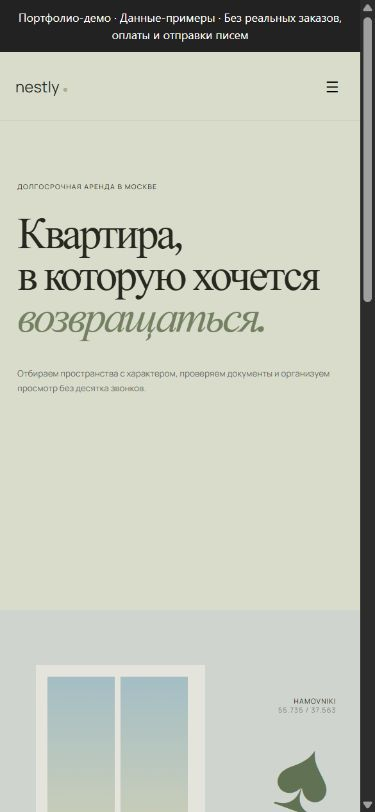
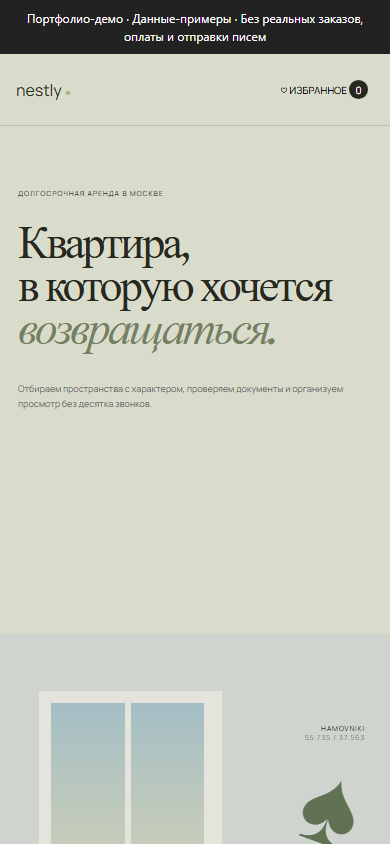
Complete responsive interactions and add browser regression checks

diff --git a/public/index.html b/public/index.html
@@ -1,2 +1,2 @@
 <!doctype html><html lang="ru"><head><meta charset="UTF-8"><meta name="viewport" content="width=device-width,initial-scale=1"><meta name="description" content="Nestly — долгосрочная аренда квартир без лишнего шума"><link rel="preconnect" href="https://fonts.googleapis.com"><link rel="preconnect" href="https://fonts.gstatic.com" crossorigin><link href="https://fonts.googleapis.com/css2?family=Manrope:wght@400;500;600&family=Newsreader:ital,opsz,wght@0,6..72,400;1,6..72,400&display=swap" rel="stylesheet"><link rel="stylesheet" href="styles.css"><title>Nestly — квартиры для жизни</title></head><body>
-<div role="note" style="padding:9px 16px;background:#222;color:#fff;font:12px/1.5 system-ui;text-align:center">Портфолио-демо · Данные-примеры · Без реальных заказов, оплаты и отправки писем</div><header><a class="logo">nestly<span>●</span></a><nav><a href="#catalog">Квартиры</a><a href="#about">Как это работает</a><a>Для собственников</a></nav><button class="saved">♡ Избранное <i id="saved-count">0</i></button><button class="menu">☰</button></header><main><section class="hero"><div class="hero-copy"><small>ДОЛГОСРОЧНАЯ АРЕНДА В МОСКВЕ</small><h1>Квартира,<br>в которую хочется<br><em>возвращаться.</em></h1><p>Отбираем пространства с характером, проверяем документы и организуем просмотр без десятка звонков.</p></div><div class="hero-room"><div class="window"><i></i><i></i></div><div class="sofa"><i></i><b></b></div><div class="table"></div><div class="plant">♠</div><span>HAMOVNIKI<br><b>55.735 / 37.563</b></span></div><form class="search"><label>Район<select id="district"><option value="all">Любой район</option><option>Хамовники</option><option>Пресня</option><option>Чистые пруды</option><option>Даниловский</option><option>Раменки</option><option>Басманный</option></select></label><label>Комнаты<select id="rooms"><option value="0">Любое количество</option><option value="1">От 1 комнаты</option><option value="2">От 2 комнат</option><option value="3">От 3 комнат</option></select></label><label>Бюджет<select id="price"><option value="0">Без ограничений</option><option value="100000">до 100 000 ₽</option><option value="150000">до 150 000 ₽</option><option value="200000">до 200 000 ₽</option></select></label><button>Показать варианты →</button></form></section><section class="catalog" id="catalog"><header><div><small>ПОДХОДЯЩИЕ ВАРИАНТЫ</small><h2>Пространства<br>для жизни</h2></div><p><span id="result-count">—</span> объектов · проверены командой Nestly</p></header><div class="layout"><div class="listings" id="listings"></div><div class="map"><span class="river"></span><i style="--x:22%;--y:34%">2</i><i style="--x:58%;--y:25%">1</i><i style="--x:68%;--y:62%">3</i><i style="--x:38%;--y:72%">1</i><div class="map-label one">ПРЕСНЯ</div><div class="map-label two">ХАМОВНИКИ</div><div class="map-label three">БАСМАННЫЙ</div></div></div></section><section class="about" id="about"><small>СПОКОЙНАЯ АРЕНДА</small><h2>Мы убрали из поиска квартиры<br><em>всё лишнее.</em></h2><div><article><span>01</span><h3>Только живые объявления</h3><p>Проверяем доступность и документы до публикации.</p></article><article><span>02</span><h3>Один менеджер</h3><p>Организует просмотры и остаётся на связи до заселения.</p></article><article><span>03</span><h3>Прозрачные условия</h3><p>Показываем все платежи и заранее проверяем договор.</p></article></div></section></main><dialog><form id="inquiry"><button type="button" class="close">×</button><small>ЗАПИСАТЬСЯ НА ПРОСМОТР</small><h2 id="dialog-title">Квартира</h2><input type="hidden" name="listingId"><label>Ваше имя<input name="name" required placeholder="Роман"></label><label>Телефон<input name="phone" required placeholder="+7 999 000-00-00"></label><label>Комментарий<textarea name="message" rows="3" placeholder="Когда вам удобно посмотреть квартиру?"></textarea></label><button class="send">Отправить заявку →</button><p class="success"></p></form></dialog><script src="app.js"></script></body></html>
+<div role="note" style="padding:9px 16px;background:#222;color:#fff;font:12px/1.5 system-ui;text-align:center">Портфолио-демо · Данные-примеры · Без реальных заказов, оплаты и отправки писем</div><header><a class="logo">nestly<span>●</span></a><nav><a href="#catalog">Квартиры</a><a href="#about">Как это работает</a></nav><button class="saved">♡ Избранное <i id="saved-count">0</i></button><button class="menu" aria-label="Перейти к поиску квартир">Поиск</button></header><main><section class="hero"><div class="hero-copy"><small>ДОЛГОСРОЧНАЯ АРЕНДА В МОСКВЕ</small><h1>Квартира,<br>в которую хочется<br><em>возвращаться.</em></h1><p>Отбираем пространства с характером, проверяем документы и организуем просмотр без десятка звонков.</p></div><div class="hero-room"><div class="window"><i></i><i></i></div><div class="sofa"><i></i><b></b></div><div class="table"></div><div class="plant">♠</div><span>HAMOVNIKI<br><b>55.735 / 37.563</b></span></div><form class="search"><label>Район<select id="district"><option value="all">Любой район</option><option>Хамовники</option><option>Пресня</option><option>Чистые пруды</option><option>Даниловский</option><option>Раменки</option><option>Басманный</option></select></label><label>Комнаты<select id="rooms"><option value="0">Любое количество</option><option value="1">От 1 комнаты</option><option value="2">От 2 комнат</option><option value="3">От 3 комнат</option></select></label><label>Бюджет<select id="price"><option value="0">Без ограничений</option><option value="100000">до 100 000 ₽</option><option value="150000">до 150 000 ₽</option><option value="200000">до 200 000 ₽</option></select></label><button>Показать варианты →</button></form></section><section class="catalog" id="catalog"><header><div><small>ПОДХОДЯЩИЕ ВАРИАНТЫ</small><h2>Пространства<br>для жизни</h2></div><p><span id="result-count">—</span> объектов · проверены командой Nestly</p></header><div class="layout"><div class="listings" id="listings"></div><div class="map"><span class="river"></span><i style="--x:22%;--y:34%">2</i><i style="--x:58%;--y:25%">1</i><i style="--x:68%;--y:62%">3</i><i style="--x:38%;--y:72%">1</i><div class="map-label one">ПРЕСНЯ</div><div class="map-label two">ХАМОВНИКИ</div><div class="map-label three">БАСМАННЫЙ</div></div></div></section><section class="about" id="about"><small>СПОКОЙНАЯ АРЕНДА</small><h2>Мы убрали из поиска квартиры<br><em>всё лишнее.</em></h2><div><article><span>01</span><h3>Только живые объявления</h3><p>Проверяем доступность и документы до публикации.</p></article><article><span>02</span><h3>Один менеджер</h3><p>Организует просмотры и остаётся на связи до заселения.</p></article><article><span>03</span><h3>Прозрачные условия</h3><p>Показываем все платежи и заранее проверяем договор.</p></article></div></section></main><dialog><form id="inquiry"><button type="button" class="close">×</button><small>ЗАПИСАТЬСЯ НА ПРОСМОТР</small><h2 id="dialog-title">Квартира</h2><input type="hidden" name="listingId"><label>Ваше имя<input name="name" required placeholder="Роман"></label><label>Телефон<input name="phone" required placeholder="+7 999 000-00-00"></label><label>Комментарий<textarea name="message" rows="3" placeholder="Когда вам удобно посмотреть квартиру?"></textarea></label><button class="send">Отправить заявку →</button><p class="success"></p></form></dialog><script src="app.js"></script></body></html>

diff --git a/public/styles.css b/public/styles.css
@@ -1,1 +1,3 @@
 :root{font-family:Manrope,sans-serif;color:#272820;background:#f2f0e9;--olive:#738061;--ink:#272820;--line:#d6d3c9}*{box-sizing:border-box}html{scroll-behavior:smooth}body{margin:0;min-width:320px}button,input,select,textarea{font:inherit}.logo{font:600 20px}.logo span{color:#a4b58b;font-size:10px;margin-left:3px}body>header{position:absolute;z-index:3;left:0;right:0;height:72px;display:grid;grid-template-columns:1fr auto 1fr;align-items:center;padding:0 34px;border-bottom:1px solid #39392f2b}nav{display:flex;gap:27px}nav a,.saved{font-size:8px;text-transform:uppercase}.saved{justify-self:end;border:0;background:none}.saved i{display:inline-grid;place-items:center;width:19px;height:19px;border-radius:50%;background:var(--ink);color:white;font-style:normal}.menu{display:none}.hero{position:relative;display:grid;grid-template-columns:1fr 1fr;min-height:700px;background:#d9dccb}.hero-copy{padding:145px 6vw 130px}.hero small,.catalog small,.about small,dialog small{font-size:7px;letter-spacing:.13em}.hero h1{margin:25px 0;font:400 61px/.94 Newsreader;letter-spacing:-.055em}.hero h1 em{color:var(--olive);font-weight:400}.hero-copy p{max-width:430px;color:#66695f;font-size:9px;line-height:1.7}.hero-room{position:relative;overflow:hidden;background:linear-gradient(#d0d4ce 0 65%,#ae967d 66%)}.window{position:absolute;left:10%;top:11%;display:flex;width:47%;height:45%;border:12px solid #e4e3dc;background:linear-gradient(#a4bec5,#d8d3b4)}.window i{flex:1;border-right:6px solid #e4e3dc}.sofa{position:absolute;left:19%;bottom:12%;width:60%;height:29%;border-radius:38px 38px 8px 8px;background:#879177;box-shadow:0 15px 30px #514d4340}.sofa:before{content:'';position:absolute;left:-5%;right:-5%;bottom:0;height:35%;border-radius:15px;background:#79836b}.sofa i,.sofa b{position:absolute;top:17%;width:42%;height:53%;border-radius:15px;background:#9ba38e}.sofa i{left:5%}.sofa b{right:5%}.table{position:absolute;right:2%;bottom:6%;width:31%;height:10%;border-radius:50%;background:#664e3c}.table:after{content:'';position:absolute;left:50%;top:60%;width:5px;height:80px;background:#4b3d33}.plant{position:absolute;right:7%;top:18%;font-size:110px;color:#607154;transform:rotate(20deg)}.hero-room>span{position:absolute;right:25px;top:90px;text-align:right;font-size:7px;letter-spacing:.12em}.hero-room>span b{font-weight:400;color:#777}.search{position:absolute;left:6vw;right:6vw;bottom:-38px;z-index:4;display:grid;grid-template-columns:1fr 1fr 1fr 170px;background:#faf9f5;border:1px solid #cac7bd;border-radius:10px;box-shadow:0 18px 45px #5e584c1d;overflow:hidden}.search label{display:grid;gap:5px;padding:15px 18px;border-right:1px solid var(--line);font-size:7px;text-transform:uppercase}.search select{border:0;background:none;outline:0;font-size:10px}.search button,.send{border:7px solid #faf9f5;background:var(--ink);color:white;font-size:8px}.catalog{padding:120px 34px 90px}.catalog>header{display:flex;justify-content:space-between;align-items:end;margin-bottom:35px}.catalog h2,.about h2{margin:8px 0 0;font:400 43px/.94 Newsreader}.catalog header p{color:#797b72;font-size:8px}.layout{display:grid;grid-template-columns:1.2fr .8fr;gap:15px}.listings{display:grid;grid-template-columns:1fr 1fr;gap:12px}.listing{border:1px solid var(--line);background:#fbfaf6;cursor:pointer}.listing-art{position:relative;height:220px;background:var(--accent);overflow:hidden}.listing-art .wall{position:absolute;inset:0;background:linear-gradient(#ddd8ca 0 63%,#a58a72 64%);filter:hue-rotate(var(--hue))}.listing-art .pic{position:absolute;left:9%;top:13%;width:31%;height:32%;border:8px solid #eae5da;background:var(--accent)}.listing-art .bed{position:absolute;left:17%;bottom:14%;width:64%;height:27%;border-radius:13px 13px 3px 3px;background:var(--accent);box-shadow:0 8px 15px #4f463a3a}.listing-art .bed:after{content:'';position:absolute;left:7%;top:12%;width:37%;height:40%;border-radius:7px;background:#e6e0d3}.listing-art>span{position:absolute;left:10px;bottom:10px;padding:5px 7px;border-radius:5px;background:#f7f4eddf;font-size:6px;text-transform:uppercase}.heart{position:absolute;right:10px;top:10px;width:28px;height:28px;border:0;border-radius:50%;background:#fffddd}.heart.active{background:#283028;color:white}.listing-info{padding:14px}.listing-info>small{color:#888a81;letter-spacing:0}.listing-info h3{margin:5px 0 15px;font:400 18px Newsreader}.specs{display:flex;gap:12px;padding:11px 0;border-top:1px solid #e3e0d8;color:#77796f;font-size:7px}.listing-foot{display:flex;justify-content:space-between;align-items:end}.listing-foot strong{font-size:12px}.listing-foot strong small{font-size:6px;font-weight:400}.listing-foot button{border:0;background:none;font-size:7px;text-decoration:underline}.map{position:sticky;top:15px;height:670px;border:1px solid var(--line);background:#d9dccf;overflow:hidden}.map:before{content:'';position:absolute;inset:0;background:repeating-linear-gradient(25deg,transparent 0 45px,#c5cabb 46px 48px),repeating-linear-gradient(110deg,transparent 0 65px,#cbd0c1 66px 68px)}.river{position:absolute;left:44%;top:-10%;width:20%;height:120%;background:#b9d0d0;transform:rotate(-13deg);border-left:5px solid #d8dccf;border-right:5px solid #d8dccf}.map>i{position:absolute;left:var(--x);top:var(--y);z-index:2;display:grid;place-items:center;width:32px;height:32px;border-radius:50% 50% 50% 4px;transform:rotate(-45deg);background:var(--ink);color:white;font-size:8px;font-style:normal}.map>i::first-letter{transform:rotate(45deg)}.map-label{position:absolute;z-index:1;color:#72786d;font-size:7px;letter-spacing:.15em}.map-label.one{left:12%;top:20%}.map-label.two{left:18%;top:58%}.map-label.three{right:8%;top:44%}.about{padding:100px 6vw;background:#2b352d;color:#eef0e9}.about h2{font-size:50px}.about h2 em{color:#aabc92}.about>div{display:grid;grid-template-columns:repeat(3,1fr);gap:45px;margin-top:65px}.about article{border-top:1px solid #59625b;padding-top:16px}.about article>span{font:italic 16px Newsreader;color:#aabc92}.about h3{margin:30px 0 8px;font:400 18px Newsreader}.about p{margin:0;color:#a1a8a2;font-size:8px;line-height:1.6}dialog{width:min(480px,calc(100% - 24px));border:0;border-radius:15px;padding:0;background:#f7f5ef}dialog::backdrop{background:#172019a3;backdrop-filter:blur(3px)}dialog form{position:relative;display:grid;gap:12px;padding:26px}dialog h2{margin:3px 0 15px;font:400 25px Newsreader}dialog label{display:grid;gap:5px;font-size:8px}dialog input,dialog textarea{border:1px solid var(--line);border-radius:7px;background:white;padding:10px;resize:vertical}.close{position:absolute;right:15px;top:10px;border:0;background:none;font-size:22px}.send{border:0;padding:12px}.success{min-height:12px;margin:0;color:#577158;font-size:8px}@media(max-width:800px){body>header{grid-template-columns:1fr auto;padding:0 16px}nav,.saved{display:none}.menu{display:block;border:0;background:none}.hero{grid-template-columns:1fr}.hero-copy{min-height:580px;padding:125px 18px}.hero h1{font-size:46px}.hero-room{min-height:520px}.search{left:14px;right:14px;grid-template-columns:1fr 1fr;bottom:-100px}.search label:nth-child(3){display:none}.search button{min-height:58px}.catalog{padding:170px 14px 70px}.catalog>header{display:block}.layout{grid-template-columns:1fr}.listings{grid-template-columns:1fr}.listing-art{height:280px}.map{display:none}.about{padding:75px 18px}.about h2{font-size:39px}.about>div{grid-template-columns:1fr;gap:30px}}
+
+@media(max-width:800px){body>header .saved{display:block;font-size:10px}body>header .menu{display:none}}

diff --git a/public/app.js b/public/app.js
@@ -1,1 +1,7 @@
-let saved=new Set(JSON.parse(localStorage.getItem('nestly-saved')||'[]')),list=[];const money=v=>`${new Intl.NumberFormat('ru-RU').format(v)} ₽`;async function load(){const qs=new URLSearchParams({district:district.value,rooms:rooms.value,maxPrice:price.value});list=await fetch(`/api/listings?${qs}`).then(r=>r.json());document.querySelector('#result-count').textContent=list.length;document.querySelector('#listings').innerHTML=list.map((x,n)=>`<article class="listing"><div class="listing-art" style="--accent:${x.accent};--hue:${n*12}deg"><div class="wall"></div><div class="pic"></div><div class="bed"></div><span>${x.style}</span><button class="heart ${saved.has(x.id)?'active':''}" data-save="${x.id}">♡</button></div><div class="listing-info"><small>${x.district} · ${x.address}</small><h3>${x.title}</h3><div class="specs"><span>${x.rooms} комн.</span><span>${x.area} м²</span><span>${x.floor} этаж</span></div><div class="listing-foot"><strong>${money(x.price)} <small>/ месяц</small></strong><button data-view="${x.id}">Записаться →</button></div></div></article>`).join('');document.querySelectorAll('[data-save]').forEach(b=>b.onclick=()=>{const id=Number(b.dataset.save);saved.has(id)?saved.delete(id):saved.add(id);localStorage.setItem('nestly-saved',JSON.stringify([...saved]));document.querySelector('#saved-count').textContent=saved.size;load()});document.querySelectorAll('[data-view]').forEach(b=>b.onclick=()=>{const x=list.find(v=>v.id===Number(b.dataset.view));document.querySelector('[name=listingId]').value=x.id;document.querySelector('#dialog-title').textContent=x.title;document.querySelector('dialog').showModal()})}document.querySelector('.search').onsubmit=e=>{e.preventDefault();load()};document.querySelector('.close').onclick=()=>document.querySelector('dialog').close();document.querySelector('#inquiry').onsubmit=async e=>{e.preventDefault();const d=new FormData(e.target);const r=await fetch('/api/inquiries',{method:'POST',headers:{'Content-Type':'application/json'},body:JSON.stringify({listingId:Number(d.get('listingId')),name:d.get('name'),phone:d.get('phone'),message:d.get('message')})});const out=await r.json();document.querySelector('.success').textContent=r.ok?'Демо-заявка сохранена. Уведомления менеджеру не отправляются.':out.message;if(r.ok)e.target.reset()};document.querySelector('#saved-count').textContent=saved.size;load();
+const loadFeedback=document.createElement('p');loadFeedback.className='load-feedback';loadFeedback.setAttribute('role','status');loadFeedback.style.cssText='position:fixed;bottom:16px;left:16px;right:16px;z-index:9999;background:#fff8dd;color:#222;padding:12px 20px;margin:0;font:14px/1.5 system-ui;border-radius:8px';document.querySelector('main').prepend(loadFeedback);let lastLoadArgs=[];
+async function load(...args){lastLoadArgs=args;loadFeedback.hidden=false;loadFeedback.textContent='Загрузка данных…';try{await loadData(...args);loadFeedback.textContent='';loadFeedback.hidden=true;}catch(error){loadFeedback.textContent='Не удалось загрузить данные. ';const retry=document.createElement('button');retry.type='button';retry.textContent='Повторить загрузку';retry.onclick=()=>load(...lastLoadArgs);loadFeedback.append(retry);}}
+let saved=new Set(JSON.parse(localStorage.getItem('nestly-saved')||'[]')),list=[],onlySaved=false;const money=v=>`${new Intl.NumberFormat('ru-RU').format(v)} ₽`;async function loadData(){const qs=new URLSearchParams({district:district.value,rooms:rooms.value,maxPrice:price.value});list=await fetch(`/api/listings?${qs}`).then(r=>{if(!r.ok)throw new Error('HTTP '+r.status);return r.json()});if(onlySaved)list=list.filter(x=>saved.has(x.id));document.querySelector('#result-count').textContent=list.length;document.querySelector('#listings').innerHTML=list.map((x,n)=>`<article class="listing"><div class="listing-art" style="--accent:${x.accent};--hue:${n*12}deg"><div class="wall"></div><div class="pic"></div><div class="bed"></div><span>${x.style}</span><button class="heart ${saved.has(x.id)?'active':''}" data-save="${x.id}">♡</button></div><div class="listing-info"><small>${x.district} · ${x.address}</small><h3>${x.title}</h3><div class="specs"><span>${x.rooms} комн.</span><span>${x.area} м²</span><span>${x.floor} этаж</span></div><div class="listing-foot"><strong>${money(x.price)} <small>/ месяц</small></strong><button data-view="${x.id}">Записаться →</button></div></div></article>`).join('')||'<p role="status">По выбранным условиям квартир нет.</p>';document.querySelectorAll('[data-save]').forEach(b=>b.onclick=()=>{const id=Number(b.dataset.save);saved.has(id)?saved.delete(id):saved.add(id);localStorage.setItem('nestly-saved',JSON.stringify([...saved]));document.querySelector('#saved-count').textContent=saved.size;load()});document.querySelectorAll('[data-view]').forEach(b=>b.onclick=()=>{const x=list.find(v=>v.id===Number(b.dataset.view));document.querySelector('[name=listingId]').value=x.id;document.querySelector('#dialog-title').textContent=x.title;document.querySelector('dialog').showModal()})}document.querySelector('.search').onsubmit=e=>{e.preventDefault();load()};document.querySelector('.close').onclick=()=>document.querySelector('dialog').close();document.querySelector('#inquiry').onsubmit=async e=>{e.preventDefault();const d=new FormData(e.target);const r=await fetch('/api/inquiries',{method:'POST',headers:{'Content-Type':'application/json'},body:JSON.stringify({listingId:Number(d.get('listingId')),name:d.get('name'),phone:d.get('phone'),message:d.get('message')})});const out=await r.json();document.querySelector('.success').textContent=r.ok?'Демо-заявка сохранена. Уведомления менеджеру не отправляются.':out.message;if(r.ok)e.target.reset()};document.querySelector('#saved-count').textContent=saved.size;load();
+
+document.querySelector('.saved').onclick=()=>{onlySaved=!onlySaved;document.querySelector('.saved').setAttribute('aria-pressed',String(onlySaved));load();document.querySelector('#listings').scrollIntoView({behavior:'smooth'})};document.querySelector('.menu').onclick=()=>document.querySelector('.search').scrollIntoView({behavior:'smooth'});
+
+for(const form of document.querySelectorAll('form')){const submit=form.onsubmit;if(!submit)continue;form.onsubmit=async event=>{event.preventDefault();const button=form.querySelector('button[type=submit],button.send,button:not([type])');if(button)button.disabled=true;try{await submit(event);}catch{let message=form.querySelector('[role=alert]');if(!message){message=document.createElement('p');message.setAttribute('role','alert');form.append(message);}message.textContent='Не удалось выполнить запрос. Повторите действие; введённые данные остаются в форме.';}finally{if(button)button.disabled=false;}};}

diff --git a/docs/VERIFICATION.md b/docs/VERIFICATION.md
@@ -1,8 +1,5 @@
-# Проверка версии
+# Проверка 24 октября 2026
 
-23 октября 2026.
+Установка зависимостей, существующие API-тесты и новые Playwright-сценарии завершились успешно. Браузер проверен на 1280 × 900 и 390 × 844: загрузка, ширина страницы, отказ API 503 и доступная кнопка повтора. В Nestly дополнительно проверен фильтр избранного.
 
-- `install`: успешно (exit code 0).
-- `test`: успешно (exit code 0).
-
-Зависимости установлены заново в отдельном checkout; `.venv`/`node_modules` не входят в репозиторий. Проверки выполнялись локально; актуальный результат CI виден во вкладке Actions. Нагрузочное тестирование и production-аудит не проводились.
+CI повторяет API и браузерные тесты. Не проводились нагрузочные испытания, проверка мобильных устройств и production-аудит. Данные и бизнес-показатели остаются демонстрационными, как указано в README.

diff --git a/README.md b/README.md
@@ -38,6 +38,15 @@ pnpm start
 - Карта декоративная, менеджер, CRM и уведомления не подключены.
 - Нет авторизации и рабочего личного кабинета.
 
+## Проверка интерфейса
+
+Playwright проверяет компьютерную и мобильную версии, отсутствие горизонтального прокручивания и повтор загрузки после ответа API 503. Ошибка отправки формы сохраняет введённые данные.
+
+```bash
+pnpm exec playwright install chromium
+pnpm test:e2e
+```
+
 ## Подробности
 [API, конфигурация и исходные инструкции](docs/TECHNICAL.md).
 
